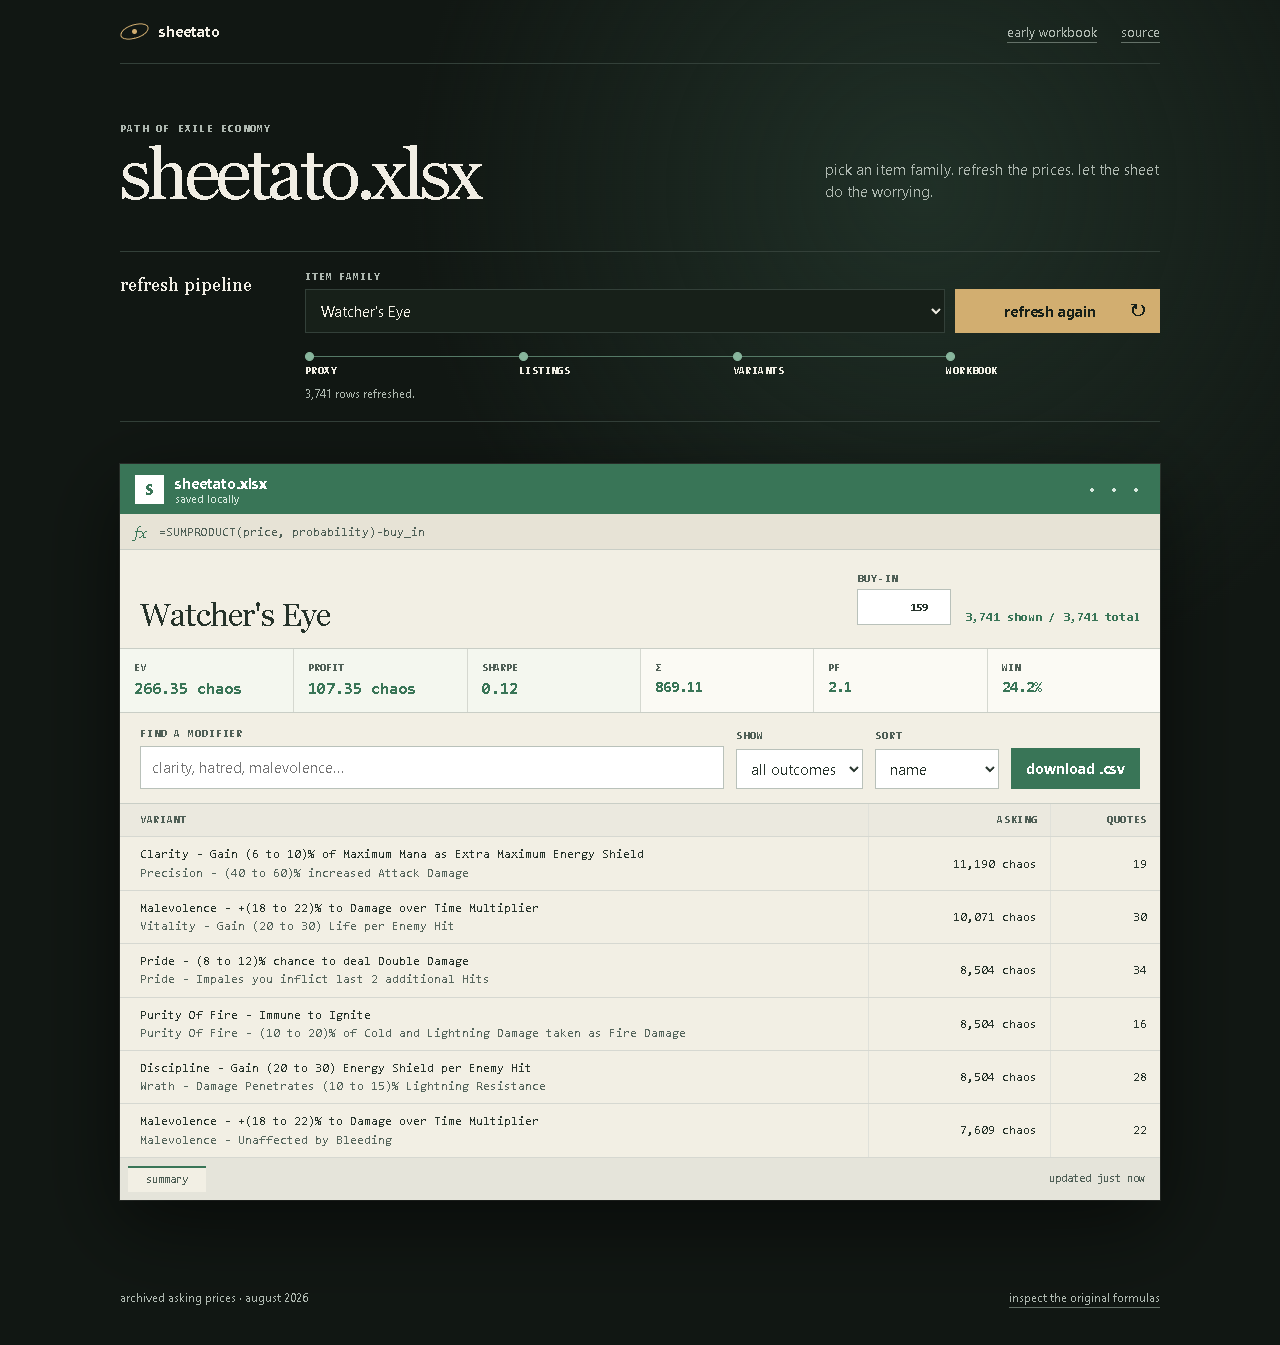
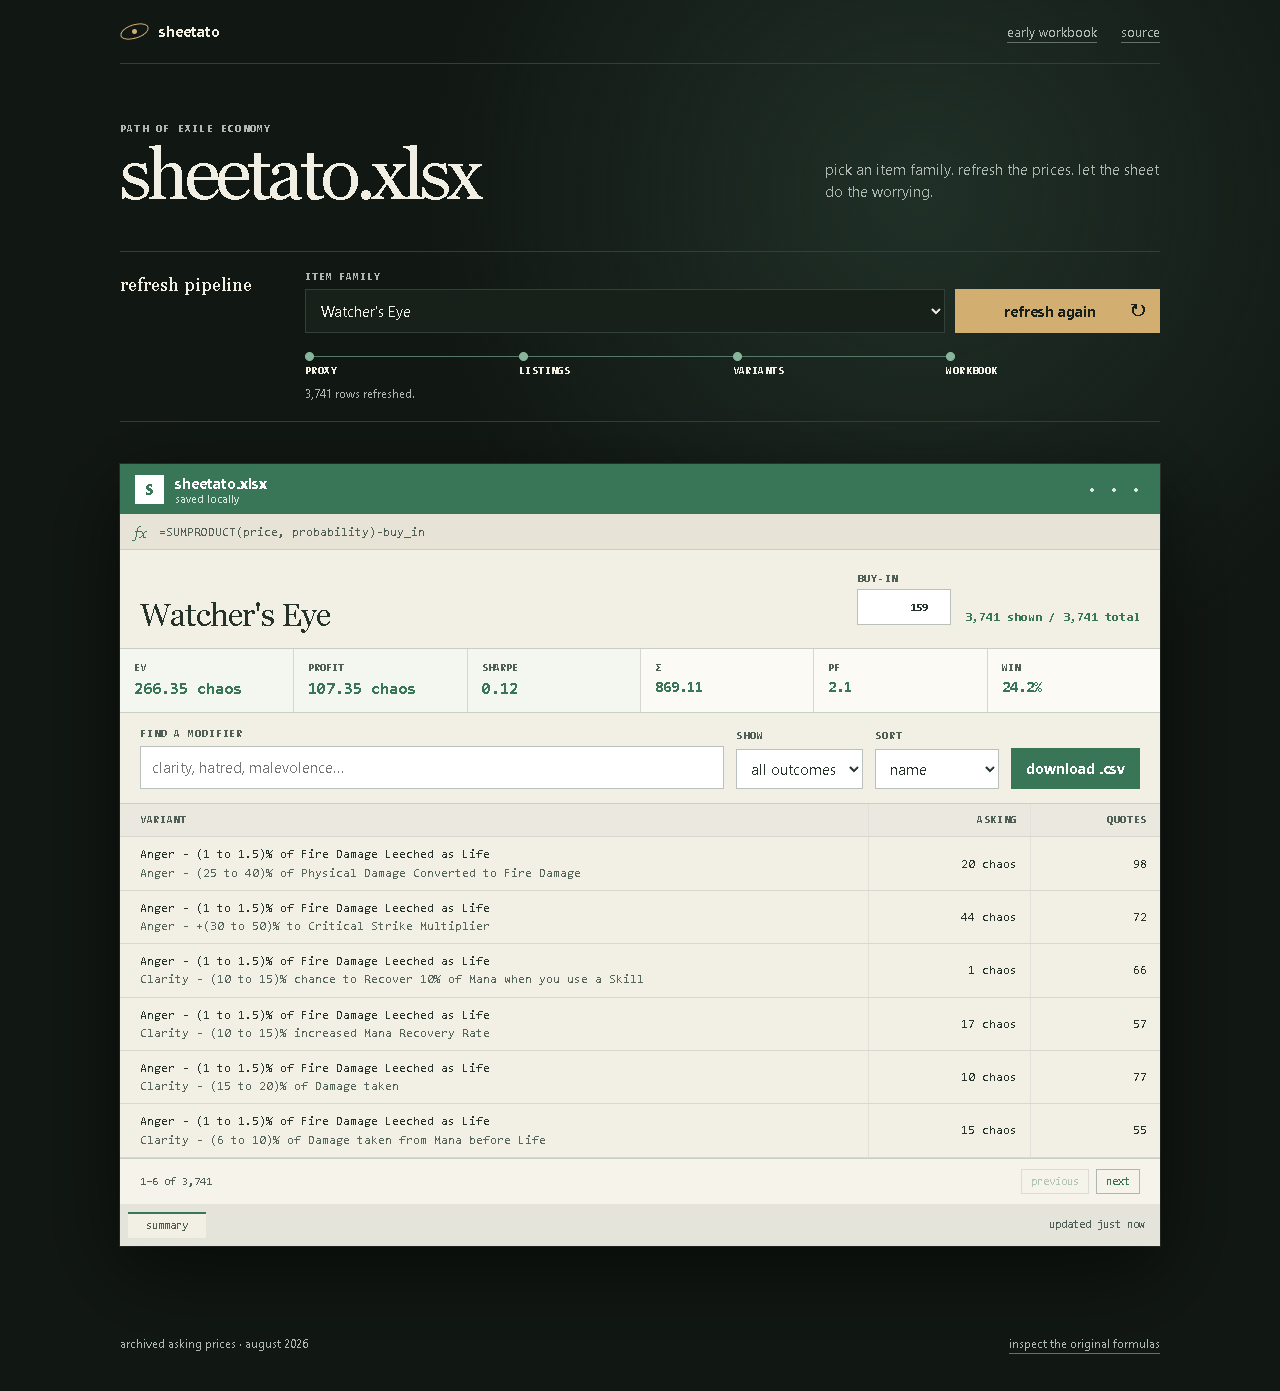
Paginate workbook variants without reshuffling

diff --git a/examples/portfolio/browser.css b/examples/portfolio/browser.css
@@ -11,6 +11,7 @@ main{padding-block:58px 54px}.hero{display:flex;align-items:end;justify-content:
 .sheet-tools{display:flex;align-items:end;gap:12px;padding:14px 20px;border-bottom:1px solid #c9cec6}.sheet-search{flex:1}.sheet-search span,.sheet-filter span{display:block;margin-bottom:6px;color:var(--sheet-muted);font:600 11px/1.2 ui-monospace,Consolas,monospace;letter-spacing:.08em;text-transform:uppercase}.sheet-search input,.sheet-filter select{min-height:38px;border-color:#b9c1ba;background:#fff;color:var(--sheet-ink)}.sheet-filter{min-width:112px}.sheet-filter select{padding:8px 10px}.sheet-tools button{min-height:38px;padding:8px 14px;border:1px solid var(--green);background:transparent;color:var(--green);font-weight:700;transition:background-color 120ms ease-out,color 120ms ease-out,transform 120ms ease-out}.sheet-tools button:hover{background:var(--green);color:#fff}.sheet-tools button:active{transform:scale(.96)}
 .table-wrap{overflow:auto}table{width:100%;border-collapse:collapse;font:12px/1.35 ui-monospace,Consolas,monospace}th{text-align:left;color:var(--sheet-muted);font-size:11px;font-weight:700;text-transform:uppercase;letter-spacing:.06em;background:#ebe9df}th,td{padding:9px 13px;border-bottom:1px solid #d6d8d1;border-right:1px solid #e0e1da}th:first-child,td:first-child{padding-left:20px}th:last-child,td:last-child{border-right:0}th:nth-child(n+2),td:nth-child(n+2){text-align:right;white-space:nowrap}td:first-child{width:72%}td span{display:block}td span+span{margin-top:2px;color:#56665d}tbody tr{--i:0;animation:write-row 280ms cubic-bezier(.2,0,0,1) both;animation-delay:calc(var(--i)*45ms)}tbody tr:hover{background:#e8f0e8}@keyframes write-row{from{opacity:.15;transform:translateX(-5px);background:#d6eadb}to{opacity:1;transform:none;background:transparent}}
 .sheet-actions{min-height:42px;display:flex;align-items:center;justify-content:space-between;padding:8px 15px 8px 8px;background:#e5e4da;color:var(--sheet-muted);font:11px/1 ui-monospace,Consolas,monospace}.sheet-tab{align-self:stretch;display:flex;align-items:center;padding:0 18px;border-top:2px solid var(--green);background:var(--paper)}#error{color:var(--danger)}#empty{padding:0 20px;color:#9b3c32}
+.table-pager{display:flex;align-items:center;justify-content:space-between;gap:12px;padding:10px 20px;border-top:1px solid #c9cec6;background:#f5f3ea;color:var(--sheet-muted);font:11px/1 ui-monospace,Consolas,monospace}.table-pager button{margin-left:7px;padding:6px 9px;border:1px solid #aeb8af;background:transparent;color:var(--green);font:inherit}.table-pager button:disabled{opacity:.35;cursor:default}
 footer{display:flex;justify-content:space-between;gap:20px;padding-block:20px 38px;color:var(--muted);font-size:12px}.skip{position:absolute;top:-100px}.skip:focus{top:10px;left:10px;background:var(--night);padding:8px;z-index:5}
-@media(max-width:720px){header,main,footer{width:calc(100% - 28px)}header{height:58px}header nav{gap:13px}main{padding-block:40px 34px}.hero{display:block;margin-bottom:34px}.hero h1{font-size:clamp(42px,14vw,58px)}.hero-note{margin-top:20px}.refresh-panel{grid-template-columns:1fr}.refresh-panel h2{grid-row:auto;margin-bottom:15px}.refresh-control{grid-template-columns:1fr}.refresh-control button{margin-top:0}.pipeline{margin-top:17px}.sheet{margin-top:32px}.sheet-head{align-items:end;padding-inline:14px}.sheet-head h2{font-size:25px}.sheet-summary{display:block;text-align:right}.sheet-summary label{display:none}.sheet-kpis{grid-template-columns:repeat(2,1fr)}.sheet-kpis span:nth-child(odd){border-left:0}.sheet-tools{display:grid;grid-template-columns:1fr 1fr;padding-inline:14px}.sheet-search{grid-column:1/-1}.sheet-filter{min-width:0}.sheet-tools button{padding-inline:10px;white-space:nowrap}.table-wrap{max-width:100%}th:first-child,td:first-child{padding-left:14px;min-width:180px}.workbook-bar{padding-inline:11px}.formula-bar{padding-inline:11px}footer{display:block}footer a{display:block;margin-top:8px}}
+@media(max-width:720px){header,main,footer{width:calc(100% - 28px)}header{height:58px}header nav{gap:13px}main{padding-block:40px 34px}.hero{display:block;margin-bottom:34px}.hero h1{font-size:clamp(42px,14vw,58px)}.hero-note{margin-top:20px}.refresh-panel{grid-template-columns:1fr}.refresh-panel h2{grid-row:auto;margin-bottom:15px}.refresh-control{grid-template-columns:1fr}.refresh-control button{margin-top:0}.pipeline{margin-top:17px}.sheet{margin-top:32px}.sheet-head{align-items:end;padding-inline:14px}.sheet-head h2{font-size:25px}.sheet-summary{display:block;text-align:right}.sheet-summary label{display:none}.sheet-kpis{grid-template-columns:repeat(2,1fr)}.sheet-kpis span:nth-child(odd){border-left:0}.sheet-tools{display:grid;grid-template-columns:1fr 1fr;padding-inline:14px}.sheet-search{grid-column:1/-1}.sheet-filter{min-width:0}.sheet-tools button{padding-inline:10px;white-space:nowrap}.table-wrap{max-width:100%}.table-pager{padding-inline:14px}th:first-child,td:first-child{padding-left:14px;min-width:180px}.workbook-bar{padding-inline:11px}.formula-bar{padding-inline:11px}footer{display:block}footer a{display:block;margin-top:8px}}
 @media(prefers-reduced-motion:reduce){*{animation:none!important;transition:none!important}}

diff --git a/examples/portfolio/index.html b/examples/portfolio/index.html
@@ -74,6 +74,10 @@
             </table>
         </div>
         <p id="empty" hidden>Nothing found. Try fewer words.</p>
+        <div class="table-pager" aria-label="Workbook rows">
+            <span id="page-info">0 rows</span>
+            <span><button id="previous" type="button" disabled>previous</button><button id="next" type="button" disabled>next</button></span>
+        </div>
         <div class="sheet-actions"><span class="sheet-tab">summary</span><span id="updated">not refreshed yet</span></div>
     </section>
     <p id="error" role="alert"></p>

diff --git a/tools/browser_audit.py b/tools/browser_audit.py
@@ -49,6 +49,22 @@ try:
         assert page.evaluate("window.__datasets.coverage") == "all"
         page.locator("#sort").select_option("name")
         assert page.evaluate("window.__datasets.sort") == "name"
+        first = page.evaluate("window.__datasets.firstVisible")
+        assert page.locator("#rows tr").first.inner_text().startswith(first.split(" + ")[0])
+        page.locator("#next").click()
+        assert page.evaluate("window.__datasets.page") == 1
+        refreshed_first = page.evaluate("window.__datasets.firstVisible")
+        assert refreshed_first != first
+        previous_refresh = page.evaluate("window.__datasets.refreshId")
+        page.locator("#refresh").click()
+        page.wait_for_function(
+            "previous => window.__datasets.refreshId > previous && !window.__datasets.refreshing",
+            arg=previous_refresh,
+        )
+        assert page.evaluate("window.__datasets.page") == 1
+        assert page.evaluate("window.__datasets.firstVisible") == refreshed_first
+        page.locator("#previous").click()
+        assert page.evaluate("window.__datasets.page") == 0
 
         page.locator("#search").fill("clarity precision")
         assert 0 < page.evaluate("window.__datasets.filtered") < 3741
@@ -64,19 +80,34 @@ try:
         assert "Clarity" in Path(download.value.path()).read_text(encoding="utf-8")
 
         page.locator("#dataset-select").select_option("split")
-        page.wait_for_function("window.__datasets.id === 'split' && !window.__datasets.refreshing")
+        page.wait_for_function("window.__datasets.id === 'split'")
         assert page.evaluate("window.__datasets.count") == 36
-        previous = page.evaluate("window.__datasets.refreshId")
+        assert page.evaluate("window.__datasets.refreshing") is True
         page.locator("#dataset-select").select_option("watchers")
-        page.wait_for_function(
-            "previous => window.__datasets.id === 'watchers' && window.__datasets.refreshId > previous && !window.__datasets.refreshing",
-            arg=previous,
-        )
+        page.wait_for_function("window.__datasets.id === 'watchers' && !window.__datasets.refreshing")
+        assert page.evaluate("window.__datasets.page") == 0
+        page.locator("#dataset-select").select_option("mageblood")
+        page.wait_for_function("window.__datasets.id === 'mageblood' && !window.__datasets.refreshing")
+        assert page.evaluate("window.__datasets.coverage") == "all"
+        for _ in range(40):
+            if page.locator("#next").is_disabled():
+                break
+            page.locator("#next").click()
+        assert page.locator("#rows").inner_text().count("unknown") > 0
+        with page.expect_download() as missing_export:
+            page.locator("#export").click()
+        assert '\"\",\"' in Path(missing_export.value.path()).read_text(encoding="utf-8")
+        page.locator("#dataset-select").select_option("watchers")
+        page.wait_for_function("window.__datasets.id === 'watchers' && !window.__datasets.refreshing")
         page.wait_for_timeout(400)
+        mobile_dir = ROOT / "output" / "playwright"
+        mobile_dir.mkdir(parents=True, exist_ok=True)
+        page.screenshot(path=str(mobile_dir / "workbook-desktop.png"), full_page=True)
         page.screenshot(path=str(ROOT / "examples/portfolio/preview.png"), full_page=True)
 
         page.set_viewport_size({"width": 390, "height": 844})
         assert page.evaluate("document.documentElement.scrollWidth <= innerWidth + 1")
+        page.screenshot(path=str(mobile_dir / "workbook-mobile.png"), full_page=True)
 
         page.set_viewport_size({"width": 1280, "height": 940})
         page.goto(urljoin(url, "archive.html"))
